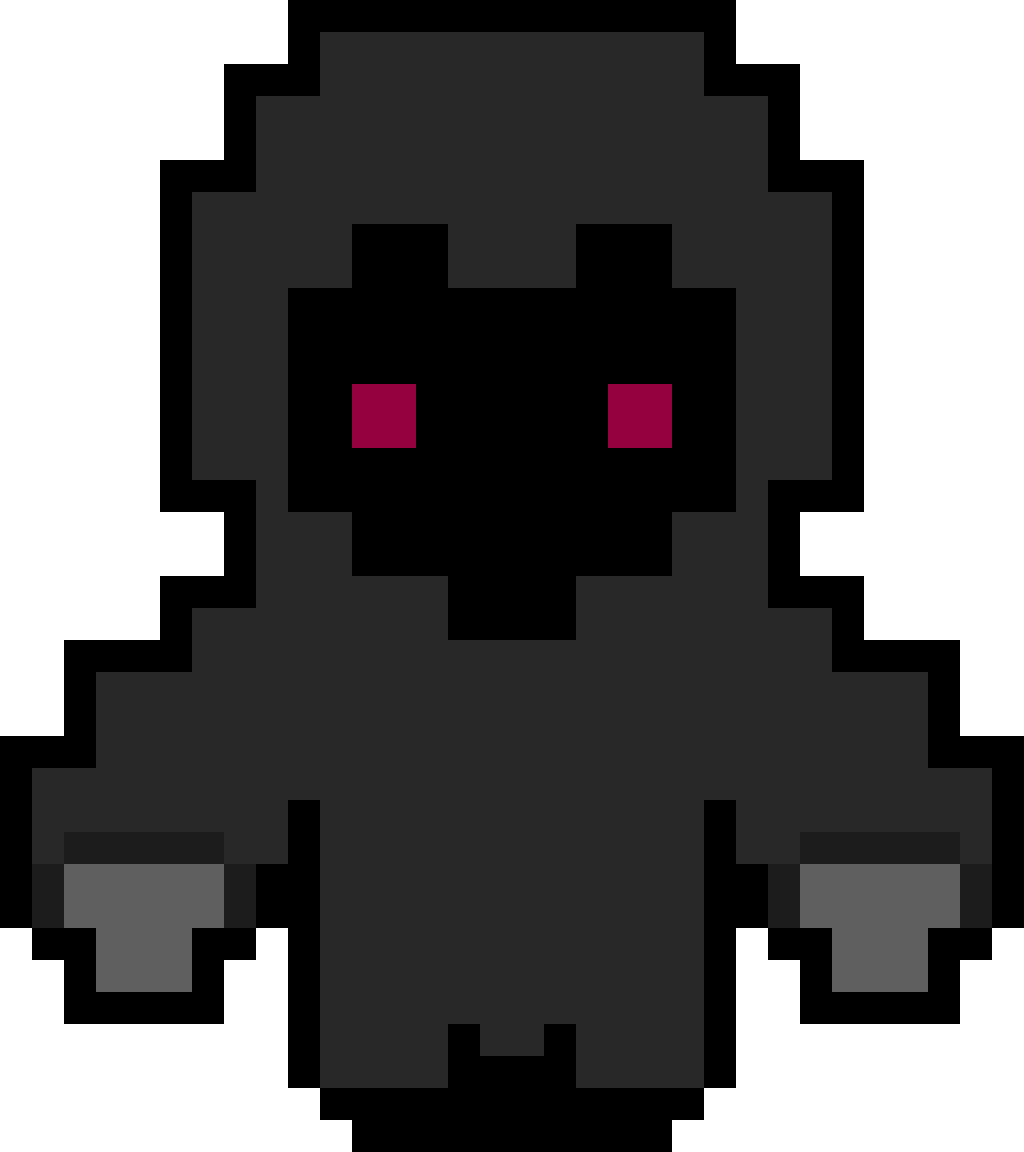
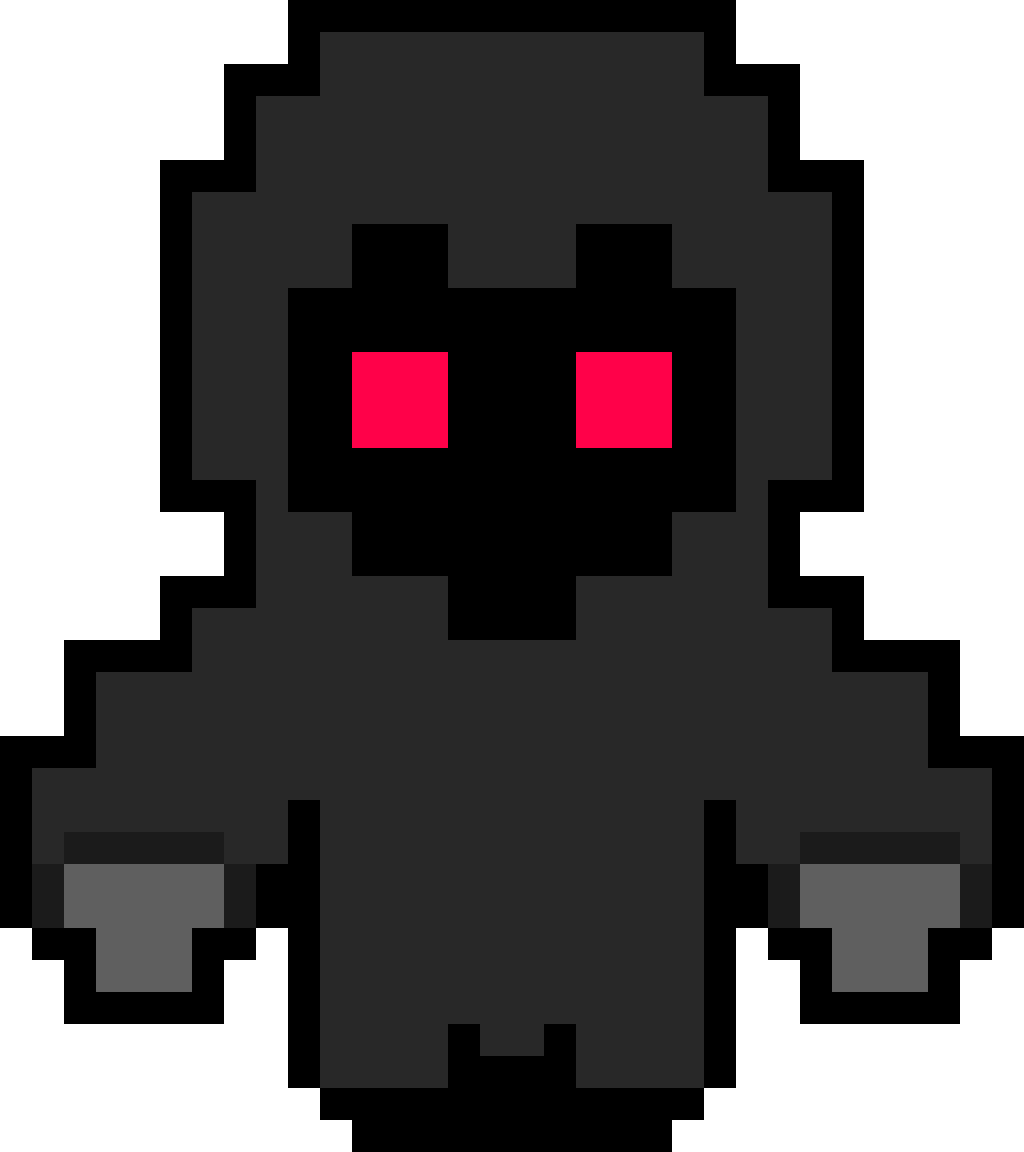
P

Changed region(s): [[0.5625, 0.2812, 0.6562, 0.4062], [0.3438, 0.2812, 0.4375, 0.4062]]

diff --git a/tile.cpp b/tile.cpp
@@ -20,12 +20,12 @@ Tile::Tile(float x, float y, int type)
             this->coords.h = 50;
             break;
         case TILE_DESK:
-            this->coords.w = 250;
-            this->coords.h = 250;
+            this->coords.w = 50;
+            this->coords.h = 50;
             break;
         case TILE_TREE_FALL:
             this->coords.w = 90;
-            this->coords.h = 140;
+            this->coords.h = 100;
             break;
         /*case TILE_LEAF:
             this->coords.w = 140;
@@ -56,10 +56,10 @@ void Tile::loadTexture(void)
             this->texture = loadModel("data/zid/zid_purple_l.png");
             break;
         case TILE_DESK:
-            this->texture = loadModel("data/stocic.png");
+            this->texture = loadModel("data/stocic_bloody.png");
             break;
         case TILE_TREE_FALL:
-            this->texture = loadModel("data/stvari/polica2.png");
+            this->texture = loadModel("data/stvari/stocic_bloody.png");
             break;
         /*ocase TILE_LEAF:
             this->texture = loadModel("data/list.png");

diff --git a/map.cpp b/map.cpp
@@ -61,12 +61,12 @@ void Map::loadTexture(void)
     int i;
     player->loadTexture("pig/pig");
     //player2->loadTexture("grim/grim");
-    player2->loadTexture("goo/goo");
+    player2->loadTexture("grim/grim");
     for(i = 0; i < this->tile.size(); i++)
         this->tile[i]->loadTexture();
     for(i = 0; i < this->enemy.size(); i++)
         this->enemy[i]->loadTexture("grim/grim");
-    this->bgImg = loadModel("data/testBg4.png");
+    this->bgImg = loadModel("data/testBg3.png");
 }
 
 void Map::setCamera(void)

diff --git a/player.cpp b/player.cpp
@@ -24,8 +24,8 @@ Player::Player(float x, float y, Timer *timer)
 {
     this->coords.x = x;
     this->coords.y = y;
-    this->coords.w = 53.0;
-    this->coords.h = 70.0;
+    this->coords.w = 60.0;
+    this->coords.h = 77.0;
     this->speed = 5.0;
     this->helth = 3.0;
     this->moveState.down = false;
